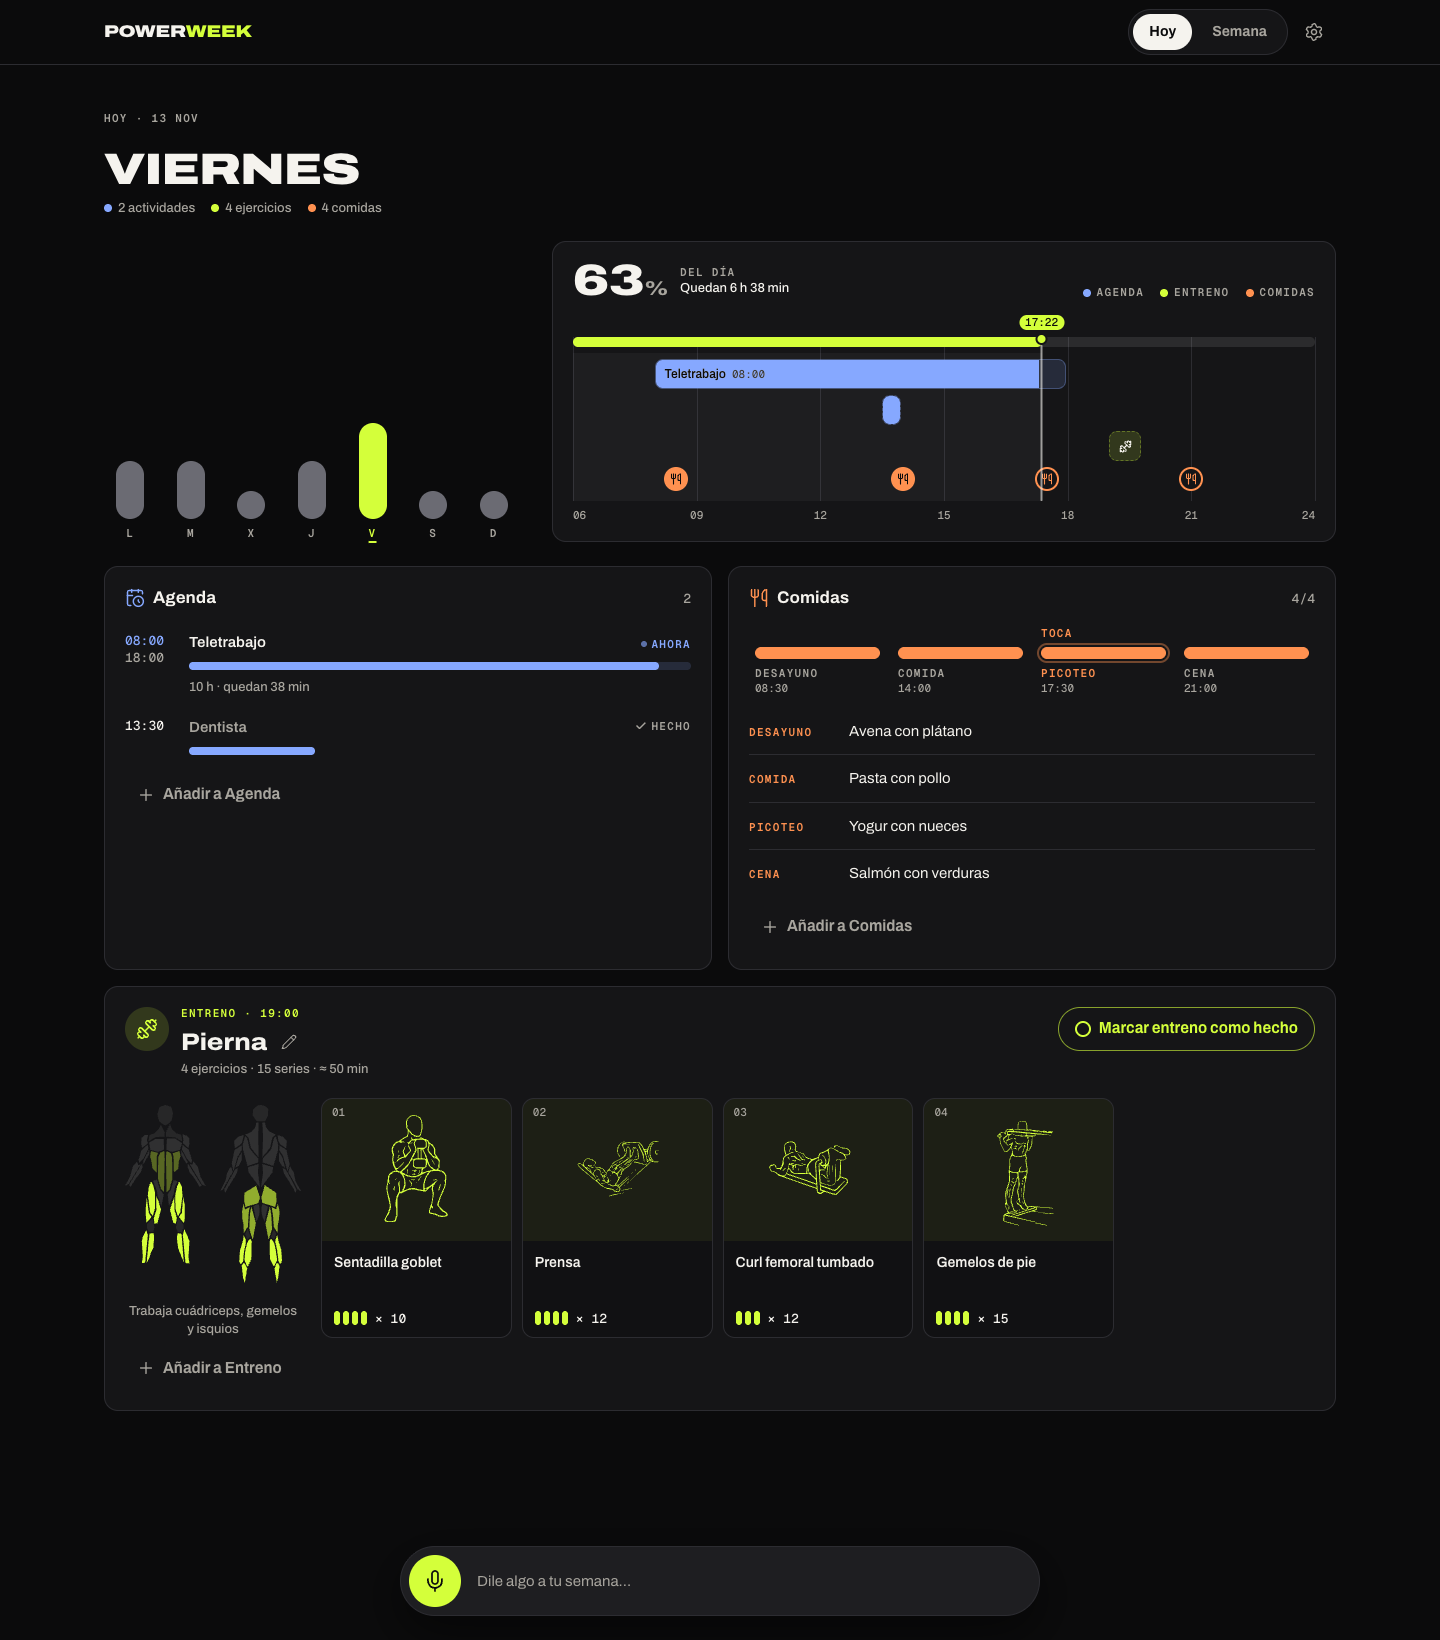
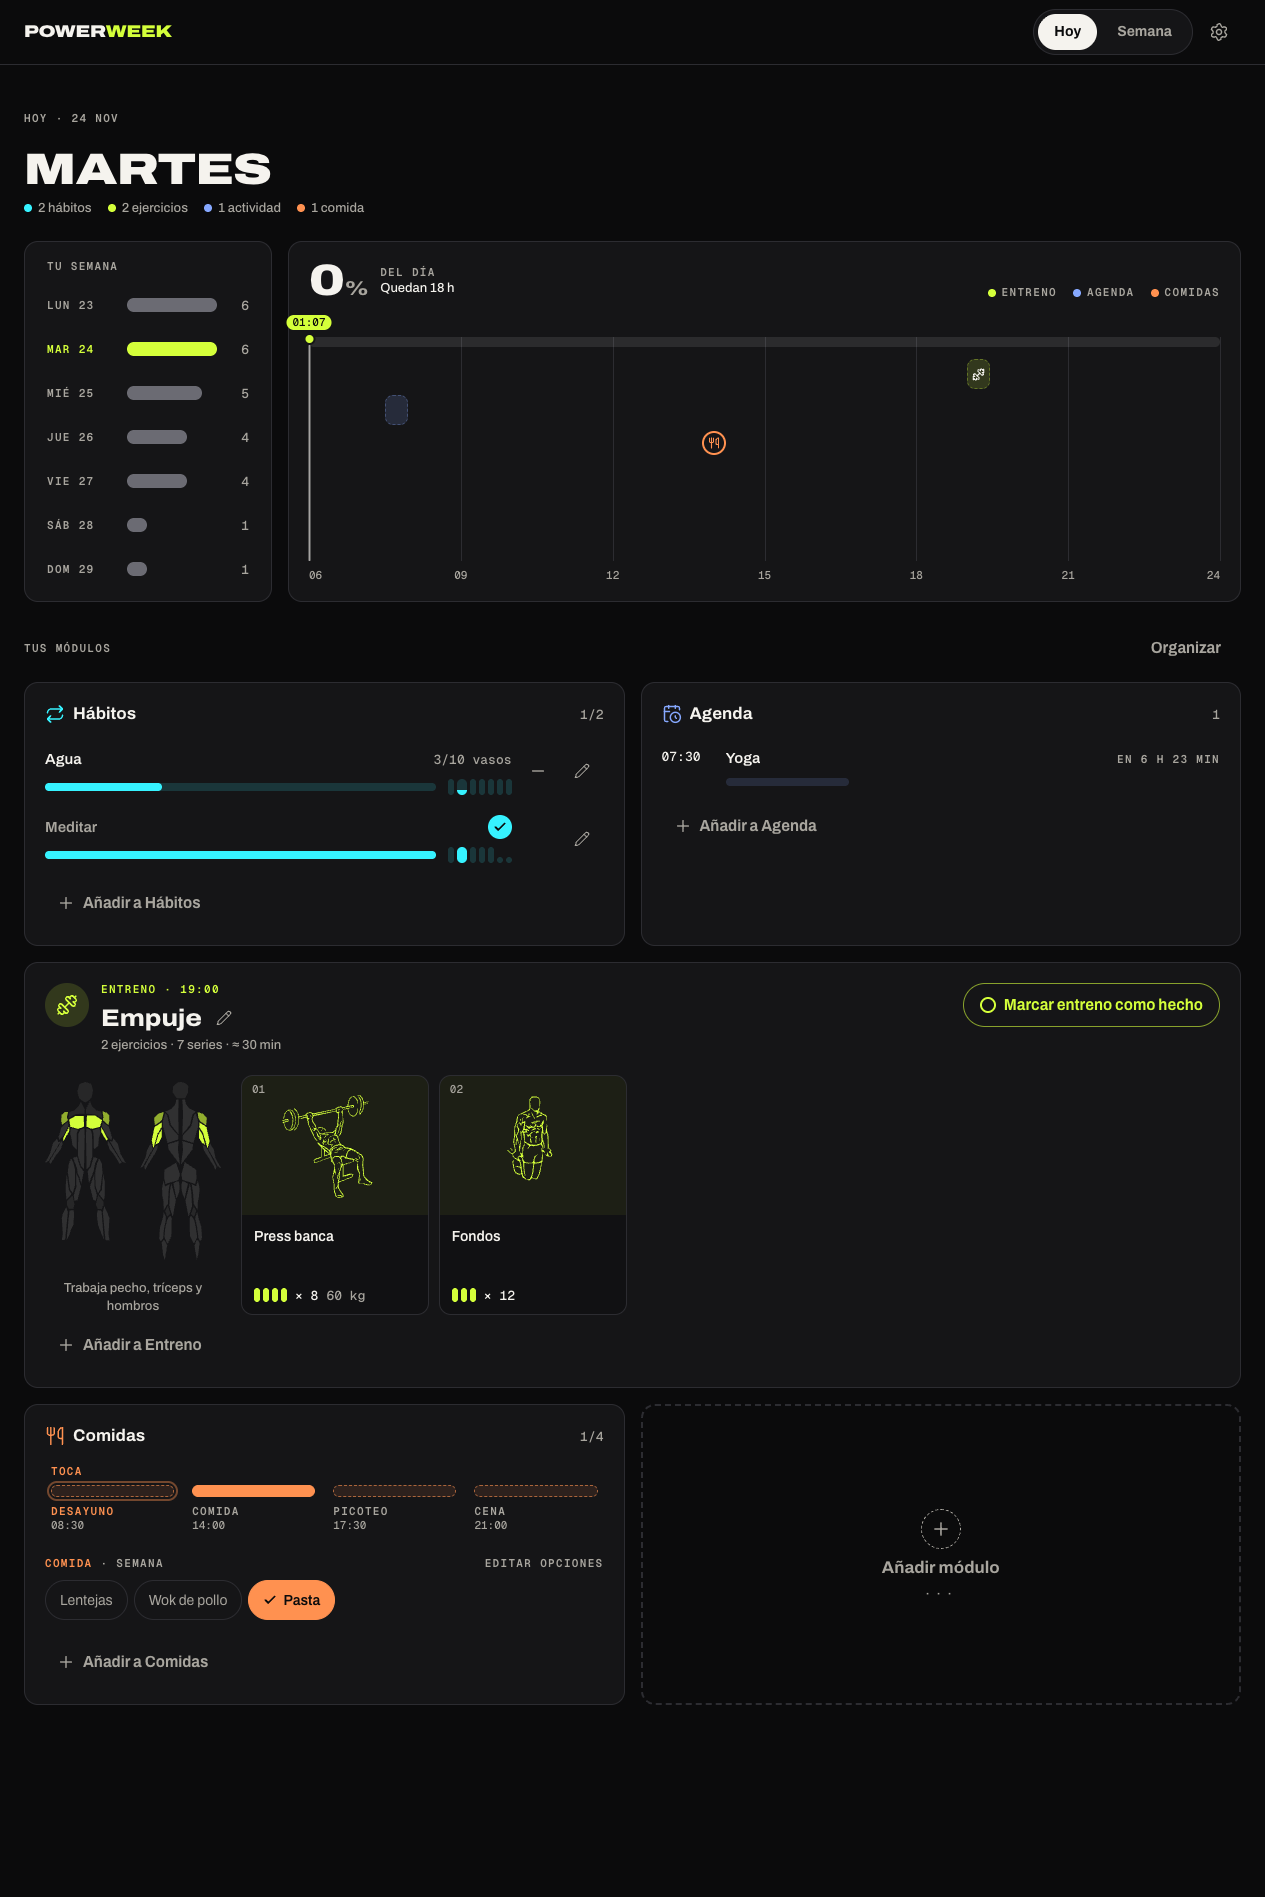
docs: Today with five modules, Habits among them

diff --git a/README.es.md b/README.es.md
@@ -40,7 +40,7 @@ Un módulo es una carpeta: qué guarda, qué cambios admite y cómo se dibuja. C
 
 Cada cambio llega con un **recibo** (qué se añade, cambia, mueve o quita) y un botón de **deshacer**. El **pulso de la semana** (siete barras tan altas como cargado está cada día) te enseña la semana entera de un vistazo, y la **barra del día** se va llenando de la mañana a la medianoche.
 
-![Hoy: la barra del día, la agenda en barras, las comidas y un entreno ilustrado](docs/images/today.png)
+![Hoy con cinco módulos: los hábitos en barras que se llenan, la agenda, un entreno ilustrado y las comidas, bajo la barra del día](docs/images/today.png)
 
 | Hoy (móvil)                                      | Detalle de un ejercicio                                            | Tablero semanal                          |
 | ------------------------------------------------ | ------------------------------------------------------------------ | ---------------------------------------- |

diff --git a/README.md b/README.md
@@ -47,7 +47,7 @@ A module is one folder: what it stores, which changes it accepts and how it draw
 
 Every change arrives with a **Change Receipt** (what was added, changed, moved or removed) and one-tap **Undo**. The **Week Pulse**, seven bars as tall as each day is busy, keeps the whole week in view, and the **Day Bar** shows the day itself filling up from morning to midnight.
 
-![Today: the Day Bar, agenda bars, the fuel gauge and an illustrated workout](docs/images/today.png)
+![Today with five modules: habits as bars that fill, the agenda, an illustrated workout and the fuel gauge, under the Day Bar](docs/images/today.png)
 
 | Today (mobile)                                    | Exercise detail                                                      | Week board                          |
 | ------------------------------------------------- | -------------------------------------------------------------------- | ----------------------------------- |
